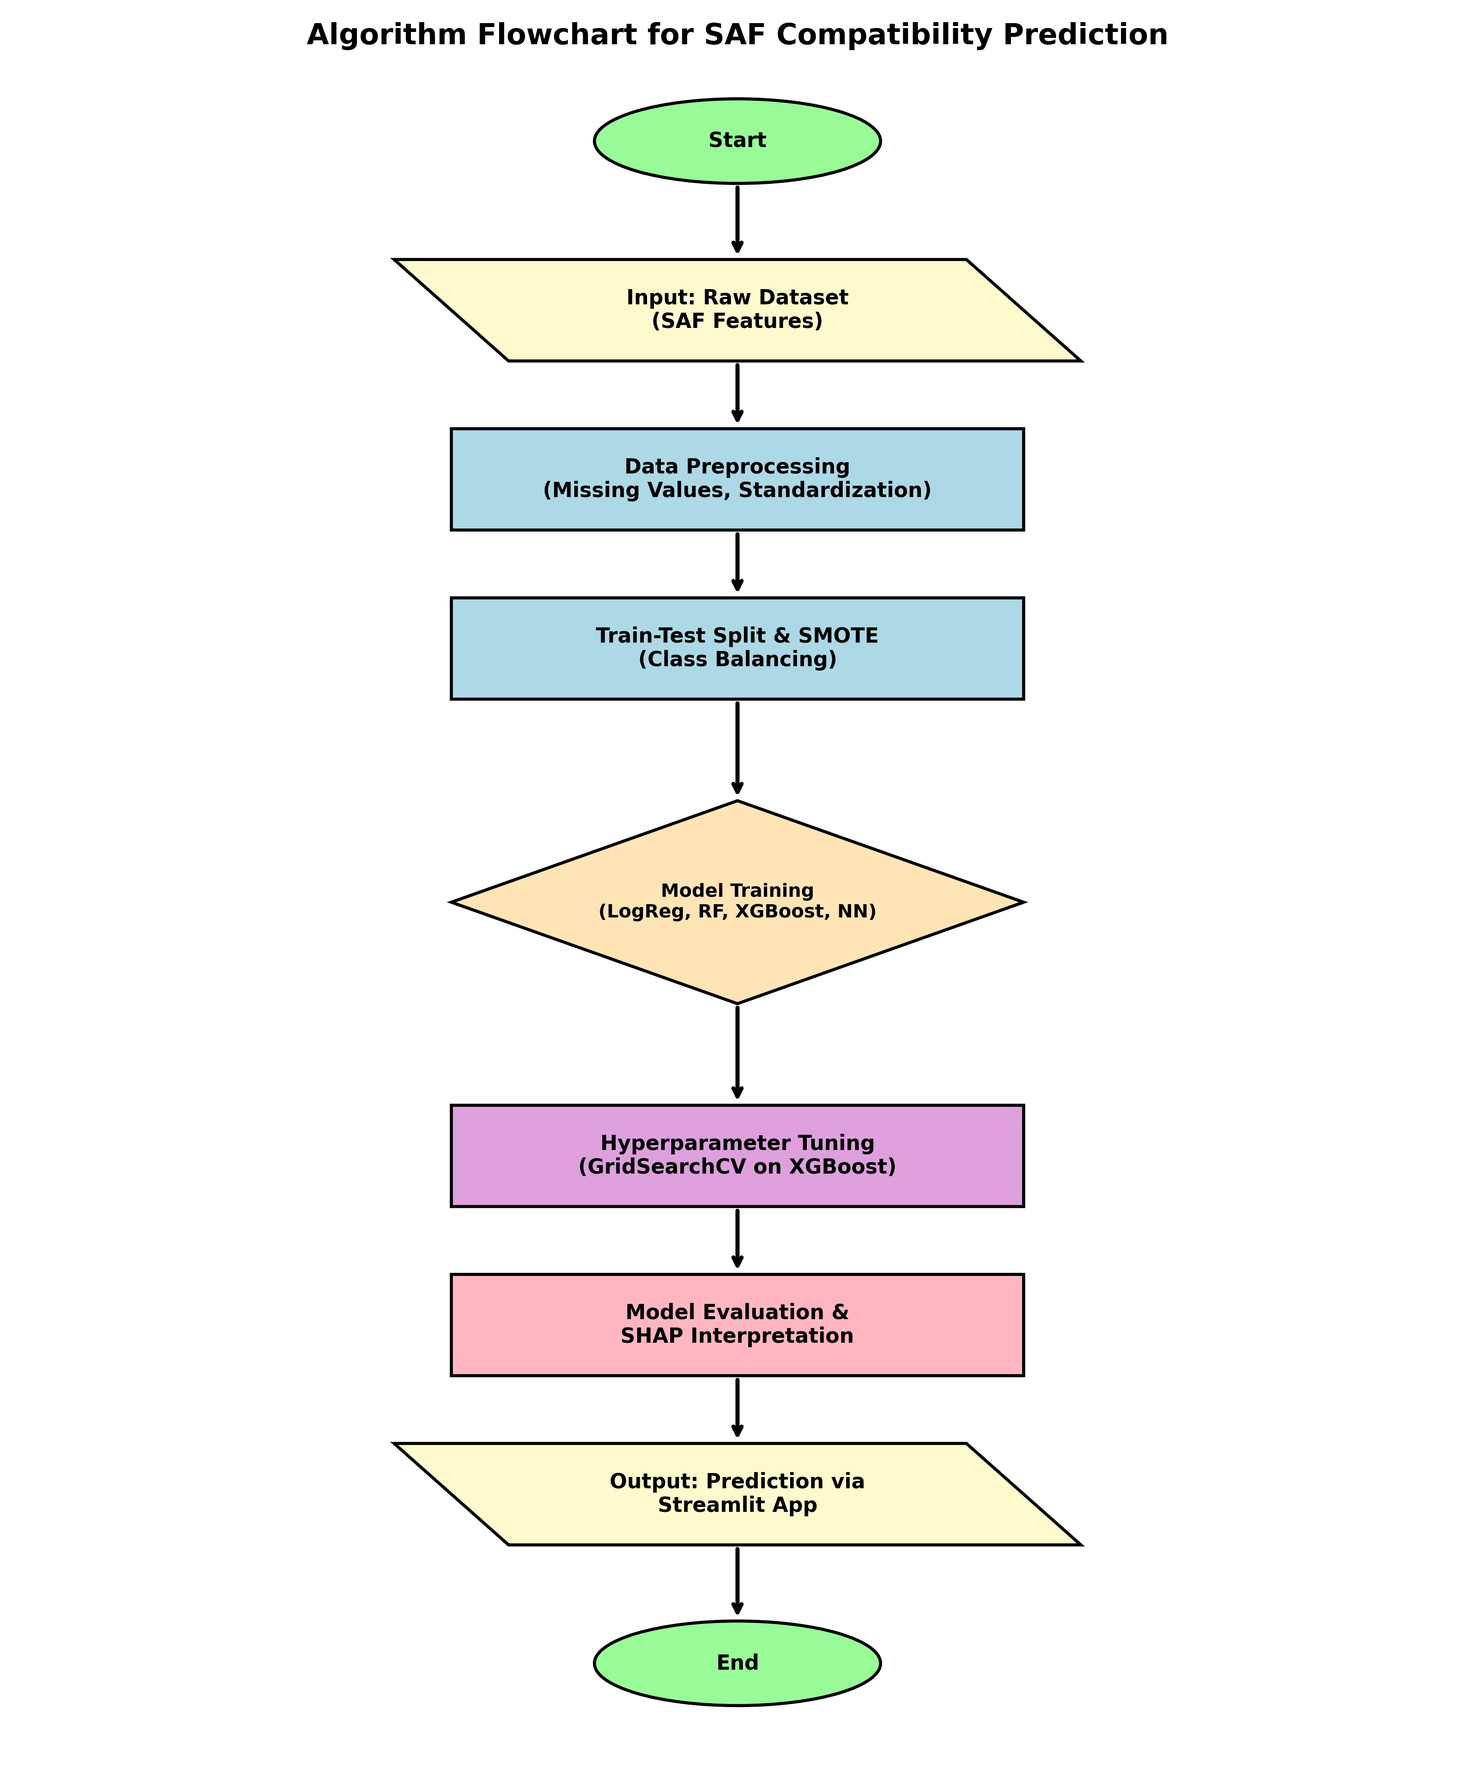
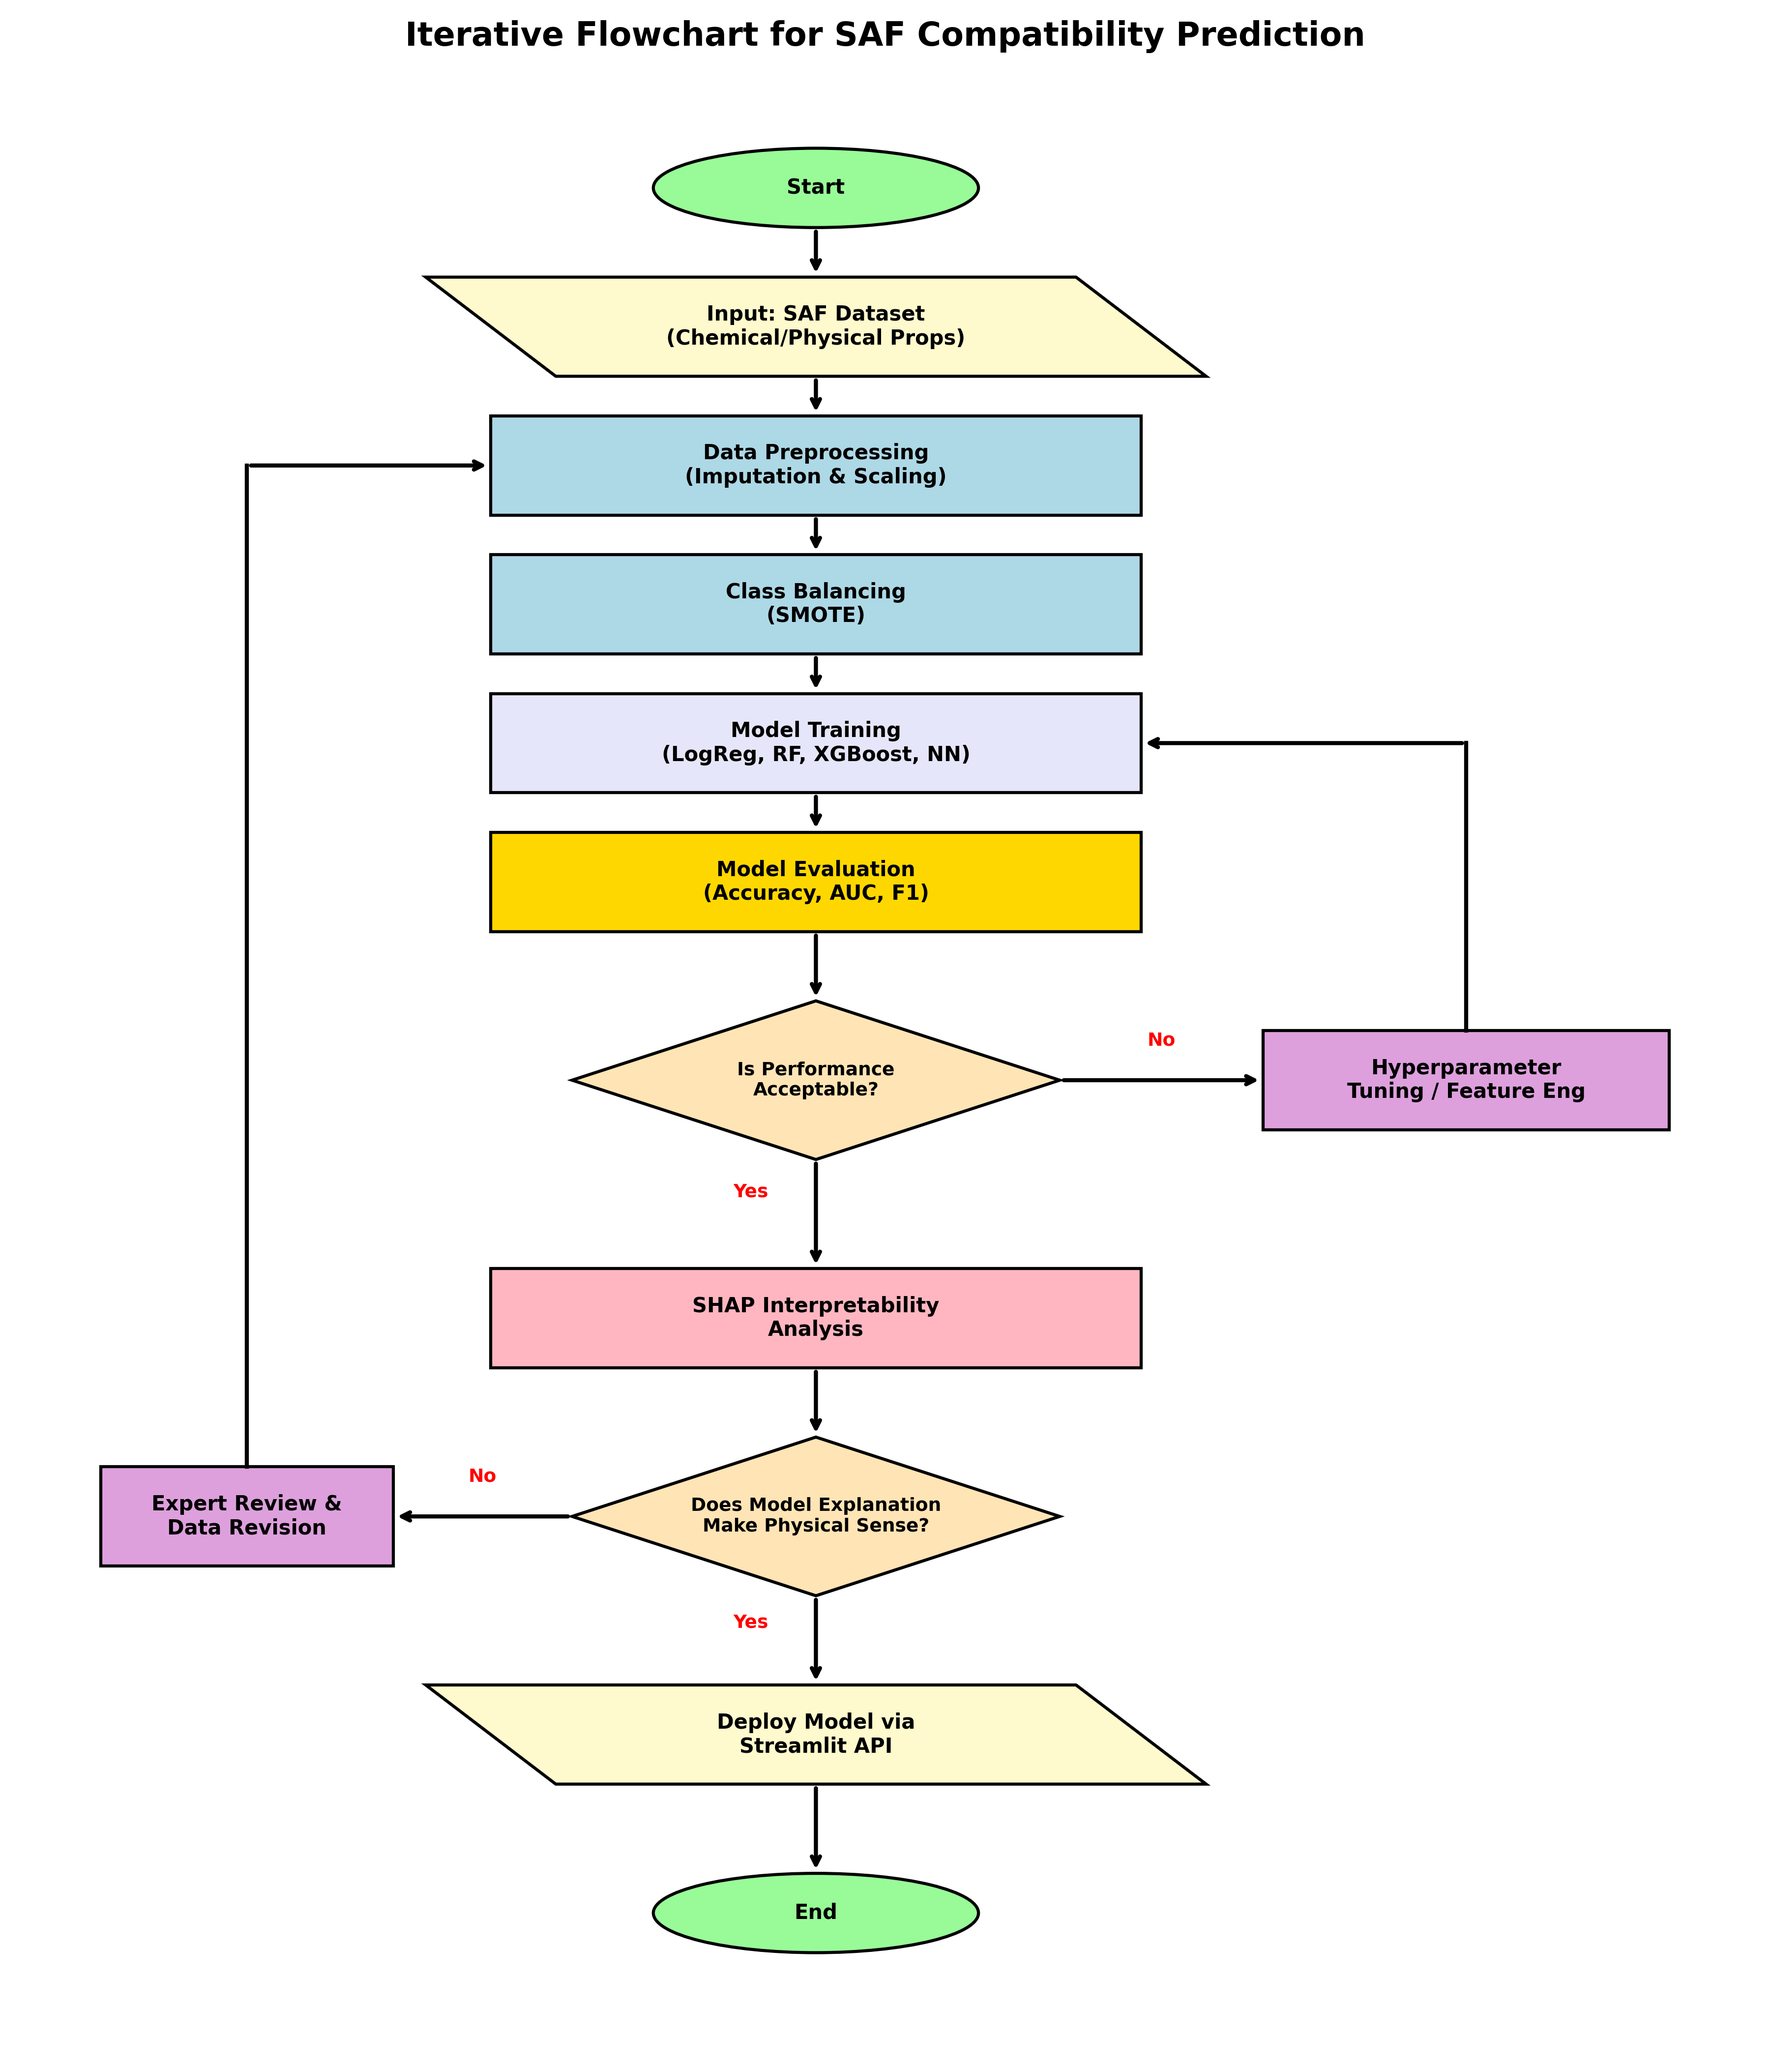
docs: Add iterative closed-loop algorithm flowchart and comprehensive research report

Changed region(s): [[0.217, 0.0, 0.961, 0.9644], [0.031, 0.6844, 0.248, 0.7778], [0.124, 0.2178, 0.155, 0.2489]]

diff --git a/SAF_Compatibility_Prediction/draw_architecture.py b/SAF_Compatibility_Prediction/draw_architecture.py
@@ -1,18 +1,17 @@
 import matplotlib.pyplot as plt
 import matplotlib.patches as patches
 
-fig, ax = plt.subplots(figsize=(10, 12))
+fig, ax = plt.subplots(figsize=(12, 14))
 ax.axis('off')
-
 fig.patch.set_facecolor('white')
 
-# Function to draw a rectangle
+# Function to draw a rectangle (Process)
 def draw_rect(ax, x, y, w, h, text, color='#add8e6'):
     rect = patches.Rectangle((x - w/2, y - h/2), w, h, linewidth=1.5, edgecolor='black', facecolor=color)
     ax.add_patch(rect)
     ax.text(x, y, text, ha='center', va='center', fontsize=10, fontweight='bold', wrap=True)
 
-# Function to draw an ellipse
+# Function to draw an ellipse (Start/End)
 def draw_ellipse(ax, x, y, w, h, text, color='#ffb6c1'):
     ellipse = patches.Ellipse((x, y), w, h, linewidth=1.5, edgecolor='black', facecolor=color)
     ax.add_patch(ellipse)
@@ -26,6 +25,7 @@ def draw_parallelogram(ax, x, y, w, h, text, color='#fffacd'):
     ax.add_patch(poly)
     ax.text(x, y, text, ha='center', va='center', fontsize=10, fontweight='bold')
 
+# Function to draw a diamond (Decision)
 def draw_diamond(ax, x, y, w, h, text, color='#ffe4b5'):
     points = [[x, y + h/2], [x + w/2, y], [x, y - h/2], [x - w/2, y]]
     poly = patches.Polygon(points, closed=True, linewidth=1.5, edgecolor='black', facecolor=color)
@@ -33,33 +33,90 @@ def draw_diamond(ax, x, y, w, h, text, color='#ffe4b5'):
     ax.text(x, y, text, ha='center', va='center', fontsize=9, fontweight='bold')
 
 # Arrow drawing
-def draw_arrow(ax, start, end):
+def draw_arrow(ax, start, end, label=None, label_pos=0.5, label_offset=(0, 0)):
     ax.annotate('', xy=end, xytext=start, arrowprops=dict(arrowstyle='->', lw=2, color='black'))
+    if label:
+        x_label = start[0] + (end[0] - start[0]) * label_pos + label_offset[0]
+        y_label = start[1] + (end[1] - start[1]) * label_pos + label_offset[1]
+        ax.text(x_label, y_label, label, ha='center', va='center', fontsize=9, fontweight='bold', color='red', bbox=dict(facecolor='white', edgecolor='none', alpha=0.8, pad=0))
+
+# Custom arrow path (for feedback loops)
+def draw_path_arrow(ax, points, label=None, label_idx=0, label_offset=(0,0)):
+    for i in range(len(points)-1):
+        if i == len(points) - 2:
+            draw_arrow(ax, points[i], points[i+1])
+        else:
+            ax.plot([points[i][0], points[i+1][0]], [points[i][1], points[i+1][1]], lw=2, color='black')
+
+    if label:
+        p1 = points[label_idx]
+        p2 = points[label_idx+1]
+        x_label = (p1[0] + p2[0]) / 2 + label_offset[0]
+        y_label = (p1[1] + p2[1]) / 2 + label_offset[1]
+        ax.text(x_label, y_label, label, ha='center', va='center', fontsize=9, fontweight='bold', color='red', bbox=dict(facecolor='white', edgecolor='none', alpha=0.8, pad=0))
+
+# Element Coordinates
+center_x = 0.45
+
+y_start = 0.95
+y_input = 0.88
+y_preproc = 0.81
+y_balance = 0.74
+y_train = 0.67
+y_eval = 0.60
+y_dec1 = 0.50 # Performance Decision
+y_tune = 0.50 # Hyperparameter tuning
+y_interp = 0.38
+y_dec2 = 0.28 # Interpretability Decision
+y_deploy = 0.17
+y_end = 0.08
 
 # Draw elements
-draw_ellipse(ax, 0.5, 0.95, 0.2, 0.05, "Start", '#98fb98')
-draw_parallelogram(ax, 0.5, 0.85, 0.4, 0.06, "Input: Raw Dataset\n(SAF Features)", '#fffacd')
-draw_rect(ax, 0.5, 0.75, 0.4, 0.06, "Data Preprocessing\n(Missing Values, Standardization)", '#add8e6')
-draw_rect(ax, 0.5, 0.65, 0.4, 0.06, "Train-Test Split & SMOTE\n(Class Balancing)", '#add8e6')
+draw_ellipse(ax, center_x, y_start, 0.2, 0.04, "Start", '#98fb98')
+draw_parallelogram(ax, center_x, y_input, 0.4, 0.05, "Input: SAF Dataset\n(Chemical/Physical Props)", '#fffacd')
+draw_rect(ax, center_x, y_preproc, 0.4, 0.05, "Data Preprocessing\n(Imputation & Scaling)", '#add8e6')
+draw_rect(ax, center_x, y_balance, 0.4, 0.05, "Class Balancing\n(SMOTE)", '#add8e6')
 
-draw_diamond(ax, 0.5, 0.50, 0.4, 0.12, "Model Training\n(LogReg, RF, XGBoost, NN)", '#ffe4b5')
+draw_rect(ax, center_x, y_train, 0.4, 0.05, "Model Training\n(LogReg, RF, XGBoost, NN)", '#e6e6fa')
+draw_rect(ax, center_x, y_eval, 0.4, 0.05, "Model Evaluation\n(Accuracy, AUC, F1)", '#ffd700')
 
-draw_rect(ax, 0.5, 0.35, 0.4, 0.06, "Hyperparameter Tuning\n(GridSearchCV on XGBoost)", '#dda0dd')
-draw_rect(ax, 0.5, 0.25, 0.4, 0.06, "Model Evaluation &\nSHAP Interpretation", '#ffb6c1')
-draw_parallelogram(ax, 0.5, 0.15, 0.4, 0.06, "Output: Prediction via\nStreamlit App", '#fffacd')
-draw_ellipse(ax, 0.5, 0.05, 0.2, 0.05, "End", '#98fb98')
+draw_diamond(ax, center_x, y_dec1, 0.3, 0.08, "Is Performance\nAcceptable?", '#ffe4b5')
+draw_rect(ax, 0.85, y_dec1, 0.25, 0.05, "Hyperparameter\nTuning / Feature Eng", '#dda0dd')
 
-# Draw lines
-draw_arrow(ax, (0.5, 0.925), (0.5, 0.88))
-draw_arrow(ax, (0.5, 0.82), (0.5, 0.78))
-draw_arrow(ax, (0.5, 0.72), (0.5, 0.68))
-draw_arrow(ax, (0.5, 0.62), (0.5, 0.56))
-draw_arrow(ax, (0.5, 0.44), (0.5, 0.38))
-draw_arrow(ax, (0.5, 0.32), (0.5, 0.28))
-draw_arrow(ax, (0.5, 0.22), (0.5, 0.18))
-draw_arrow(ax, (0.5, 0.12), (0.5, 0.075))
+draw_rect(ax, center_x, y_interp, 0.4, 0.05, "SHAP Interpretability\nAnalysis", '#ffb6c1')
 
-plt.title('Algorithm Flowchart for SAF Compatibility Prediction', fontsize=14, fontweight='bold', y=1.0)
+draw_diamond(ax, center_x, y_dec2, 0.3, 0.08, "Does Model Explanation\nMake Physical Sense?", '#ffe4b5')
+draw_rect(ax, 0.1, y_dec2, 0.18, 0.05, "Expert Review &\nData Revision", '#dda0dd')
+
+draw_parallelogram(ax, center_x, y_deploy, 0.4, 0.05, "Deploy Model via\nStreamlit API", '#fffacd')
+draw_ellipse(ax, center_x, y_end, 0.2, 0.04, "End", '#98fb98')
+
+# Draw Main Flow Lines
+draw_arrow(ax, (center_x, y_start-0.02), (center_x, y_input+0.025))
+draw_arrow(ax, (center_x, y_input-0.025), (center_x, y_preproc+0.025))
+draw_arrow(ax, (center_x, y_preproc-0.025), (center_x, y_balance+0.025))
+draw_arrow(ax, (center_x, y_balance-0.025), (center_x, y_train+0.025))
+draw_arrow(ax, (center_x, y_train-0.025), (center_x, y_eval+0.025))
+draw_arrow(ax, (center_x, y_eval-0.025), (center_x, y_dec1+0.04))
+
+# Decision 1 Flow (Performance)
+draw_arrow(ax, (center_x, y_dec1-0.04), (center_x, y_interp+0.025), label="Yes", label_pos=0.3, label_offset=(-0.04, 0))
+draw_arrow(ax, (center_x+0.15, y_dec1), (0.725, y_dec1), label="No", label_pos=0.5, label_offset=(0, 0.02))
+
+# Feedback Loop 1
+draw_path_arrow(ax, [(0.85, y_dec1+0.025), (0.85, y_train), (center_x+0.2, y_train)])
+
+# Decision 2 Flow (Interpretability)
+draw_arrow(ax, (center_x, y_interp-0.025), (center_x, y_dec2+0.04))
+draw_arrow(ax, (center_x, y_dec2-0.04), (center_x, y_deploy+0.025), label="Yes", label_pos=0.3, label_offset=(-0.04, 0))
+draw_arrow(ax, (center_x-0.15, y_dec2), (0.19, y_dec2), label="No", label_pos=0.5, label_offset=(0, 0.02))
+
+# Feedback Loop 2 (Back to Preprocessing)
+draw_path_arrow(ax, [(0.1, y_dec2+0.025), (0.1, y_preproc), (center_x-0.2, y_preproc)])
+
+draw_arrow(ax, (center_x, y_deploy-0.025), (center_x, y_end+0.02))
+
+plt.title('Iterative Flowchart for SAF Compatibility Prediction', fontsize=16, fontweight='bold', y=1.0)
 plt.tight_layout()
 plt.savefig('SAF_Compatibility_Prediction/images/system_architecture.png', dpi=300)
-print("Flowchart image generated.")
+print("Closed-loop flowchart image generated successfully.")
